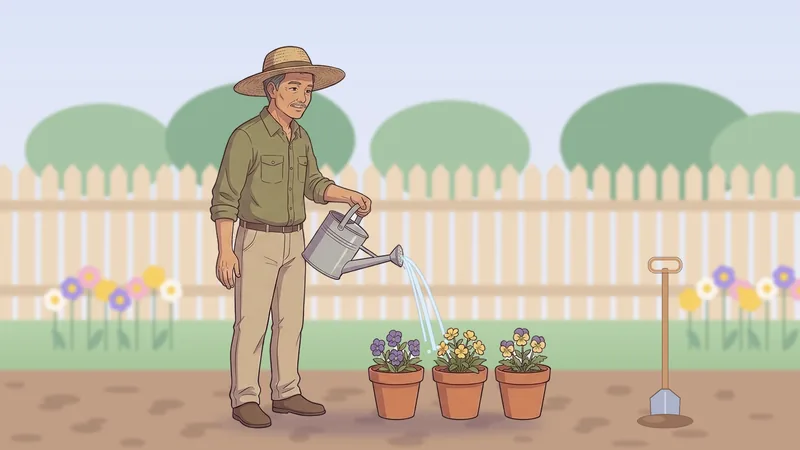
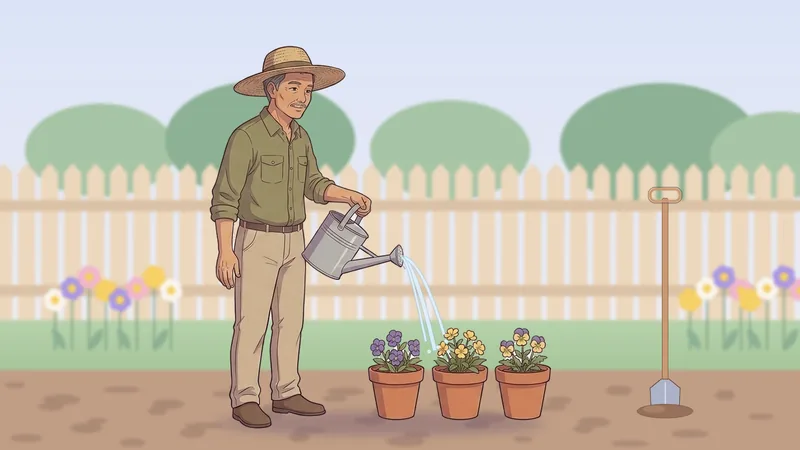
Review minors: mc4 wet roller track, taller tf2 shovel, l02 tf1 counter on the floor line, compose-scenes cleanup, docs

Changed region(s): [[0.8125, 0.4044, 0.875, 0.6222], [0.7812, 0.84, 0.875, 0.9644]]

diff --git a/sw.js b/sw.js
@@ -3,7 +3,7 @@
  * Không gửi dữ liệu đi đâu, không đụng request khác nguồn, không đụng localStorage.
  * Mỗi lần deploy có file precache đổi: sửa VERSION rồi chạy `node tools/check-sw.mjs --write`.
  */
-// content-hash: 34@33f75bd3a5f4f137
+// content-hash: 34@bd6bb9ea0ff5139e
 "use strict";
 
 var VERSION = "34";

diff --git a/tools/compose-scenes.py b/tools/compose-scenes.py
@@ -13,6 +13,9 @@ Run from the repo root:
 --unit which unit's scene table to use (default l01; l01 output is unchanged)
 --cut  directory with <scene-id>.png RGBA cut-outs (1376x768)  default ../nguon-hinh/unit1-cut (l02: unit2-cut)
 --out  directory for composed 1600x900 PNGs (input of make-scenes.py) default ../nguon-hinh/agy-anh (l02: agy-anh-u2)
+After composing: copy raw/l01-tf1.png to a staging dir as tf1.png, then
+  python tools/make-scenes.py --src STAGE --unit l01 --names tf1,... --out800 assets/img/l01/pic --outhd OUTDIR
+  (writes tf1-800.webp / tf1-1600.webp; the 1600 files are not shipped; same for l02).
 Writes only into --out (and --contact when given).
 """
 import argparse
@@ -909,9 +912,9 @@ def fence(cv, y0, y1, ol=None, pick=34, gap=12):
 def shovel(cv, x, ground, ol=None):
     """Garden shovel stuck upright in the soil at x: handle with D-grip, shaft, blade sunk into a soil mound."""
     wood, steel = (200, 152, 112), (172, 178, 200)
-    cv.rect(x - 6, ground - 300, x + 6, ground - 54, fill=wood + (255,), ol=ol, w=1.4, r=3)
-    cv.rect(x - 34, ground - 322, x + 34, ground - 290, fill=None, ol=ol, w=1.4, r=14)
-    cv.rect(x - 32, ground - 320, x + 32, ground - 292, fill=None, ol=wood, w=5, r=13)
+    cv.rect(x - 6, ground - 420, x + 6, ground - 54, fill=wood + (255,), ol=ol, w=1.4, r=3)
+    cv.rect(x - 34, ground - 442, x + 34, ground - 410, fill=None, ol=ol, w=1.4, r=14)
+    cv.rect(x - 32, ground - 440, x + 32, ground - 412, fill=None, ol=wood, w=5, r=13)
     cv.poly([(x - 8, ground - 58), (x + 8, ground - 58), (x + 30, ground - 40), (x + 28, ground + 4), (x - 28, ground + 4), (x - 30, ground - 40)], fill=steel + (255,), ol=ol, w=1.5)
     cv.line([(x, ground - 52), (x, ground - 2)], fill=mix(steel, (255, 255, 255), .45) + (255,), w=3)
     cv.ell(x, ground + 6, 56, 14, fill=(150, 112, 90, 255), ol=ol, w=1.3)
@@ -977,10 +980,10 @@ def cafe_counter(mid, x0, top, depth, floor_y, ol=OL):
         f = k / 4.0
         mid.line([(x0 + 40 - 40 * f, top - depth + depth * f), (W + 60, top - depth + depth * f)], fill=mix(WOOD_T, WOOD_L, .6) + (255,), w=1.3)
     mid.rect(x0, top, W + 60, top + 16, fill=(232, 196, 160, 255), ol=ol, w=1.4)
-    mid.rect(x0, top + 16, W + 60, floor_y + 30, fill=WOOD_F + (255,), ol=ol, w=1.6)
+    mid.rect(x0, top + 16, W + 60, floor_y, fill=WOOD_F + (255,), ol=ol, w=1.6)
     for k in range(0, 4):
         px = x0 + 30 + k * 190
-        mid.rect(px, top + 56, px + 150, floor_y + 20, fill=WOOD_D + (255,), ol=ol, w=1.3, r=4)
+        mid.rect(px, top + 56, px + 150, floor_y - 10, fill=WOOD_D + (255,), ol=ol, w=1.3, r=4)
 
 
 def till(cv, x, by, ol=OL):
@@ -1099,9 +1102,6 @@ def pic_bg_mc4(t, bb):
     cv = Cv((0, 0, 0, 255))
     cv.rect(0, 0, W, 760, fill=(250, 245, 236, 255))                               # wall: cream
     cv.rect(0, 0, 700, 760, fill=(244, 216, 128, 255))                             # part already painted yellow
-    cv.rect(560, 30, 700, 400, fill=(250, 226, 140, 255))                          # fresh wet stripe under the roller
-    for k in range(7):
-        cv.rect(560 + k * 20, 30, 566 + k * 20, 400, fill=(252, 232, 156, 255))
     cv.rect(1090, 140, 1440, 520, fill=(252, 246, 232, 255), r=8)                  # window
     cv.vgrad(1108, 158, 1422, 502, (212, 224, 250), (240, 240, 252))
     cv.ell(1200, 470, 90, 50, fill=(186, 211, 186, 255))
@@ -1187,12 +1187,11 @@ PIC_NEW = {
 
 def pic_props(name, t, bb, mid, fg, post):
     x0, y0, x1, y1 = bb          # figure box in cut-out pixels
-    gx = lambda sx, sy: t(sx, sy)
     if name == "l01-tf1":
         shadow(mid, *t((x0 + x1) / 2, y1 - 5), 330, 26, 90)
     elif name == "l01-tf2":
         shadow(mid, *t((x0 + x1) / 2, y1 - 8), 330, 24, 90)
-        shovel(mid, 1330, 836, ol=OL)
+        shovel(mid, 1330, 816, ol=OL)
         # water: thin translucent arcs from the spout onto the middle pot
         p0 = t(748, 424)
         for (cx, cy, ex, ey, wd) in ((772, 436, 806, 588, 7), (782, 426, 822, 560, 5), (762, 430, 790, 572, 4)):
@@ -1212,7 +1211,6 @@ def pic_props(name, t, bb, mid, fg, post):
     elif name == "l01-mc3":
         shadow(mid, *t((x0 + x1) / 2, y1 - 6), 320, 22, 90)
     elif name == "l01-mc4":
-        shadow(mid, *t((x0 + x1) / 2, y1 - 8), 300, 22, 90)
         # drop cloth on the floor under the ladder and the bucket (drawn before the people)
         cl = [(300, 800), (1340, 800), (1480, 890), (200, 890)]
         mid.poly(cl, fill=(246, 242, 232, 255), ol=OL, w=1.5)
@@ -1220,6 +1218,12 @@ def pic_props(name, t, bb, mid, fg, post):
             mid.line([(fx, 806), (fx - 60 + (fx % 50), 886)], fill=(224, 216, 204, 255), w=2)
         shadow(mid, *t((x0 + x1) / 2, y1 - 8), 300, 20, 90)
         shadow(mid, *t(931, 728), 56, 9, 110)
+        # wet roller track: starts at the roller head and runs down the wall (glossy fresh yellow)
+        rx0, rx1, ry = t(546, 0)[0], t(632, 0)[0], t(0, 82)[1]
+        mid.rect(rx0, ry, rx1, ry + 330, fill=(252, 232, 150, 255), ol=(236, 196, 96, 255), w=1.6, r=10)
+        for k in range(1, 5):
+            mid.line([(rx0 + (rx1 - rx0) * k / 5, ry + 20), (rx0 + (rx1 - rx0) * k / 5, ry + 320)], fill=(255, 244, 190, 255), w=3)
+        mid.ell((rx0 + rx1) / 2, ry + 330, (rx1 - rx0) / 2, 8, fill=(236, 206, 110, 255))
     elif name == "l02-tf1":
         cx0 = t(x1 + 20, 0)[0] + 70
         ftop = t(0, 392)[1]
@@ -1269,11 +1273,9 @@ def main():
     if a.only and all(n in PIC_NEW for n in a.only.split(",") if n):
         a.cut = a.cut or os.path.join("..", "nguon-hinh", "people", "cut")
         a.out = a.out or os.path.join("..", "nguon-hinh", "people", "raw")
-        scenes = list(PIC_NEW)
-        maker = make_pic
         os.makedirs(a.out, exist_ok=True)
         for n in a.only.split(","):
-            im = maker(n, a.cut)
+            im = make_pic(n, a.cut)
             im.save(os.path.join(a.out, n + ".png"))
             print("wrote", os.path.join(a.out, n + ".png"), im.size)
         return 0

diff --git a/CREDITS-IMAGES.md b/CREDITS-IMAGES.md
@@ -61,7 +61,7 @@ Status: Unit 1 and Unit 2 scene images are final art (date 2026-11-19). The Unit
 | assets/img-hd/l02/duo-walk-1600.webp | AI-generated people by the site owner (original characters); background and props drawn by tools/compose-scenes.py | 2026-11-19 | Unit 2, scene duo-walk, 1600x900 |
 | assets/img/l02/scene/group-outro-800.webp | AI-generated people by the site owner (original characters); background and props drawn by tools/compose-scenes.py | 2026-11-19 | Unit 2, outro group-outro, 800x450 |
 | assets/img-hd/l02/group-outro-1600.webp | AI-generated people by the site owner (original characters); background and props drawn by tools/compose-scenes.py | 2026-11-19 | Unit 2, outro group-outro, 1600x900 |
-| assets/img/l02/pic/tf1-800.webp | AI-generated people by the site owner (original characters: three people in a queue (cut-out l02-tf1)); cafe wall, window, menu board and a small counter with one cup and a till drawn by tools/compose-scenes.py | 2026-11-21 | Unit 2, exercise tf1/game picture, 800x450 |
+| assets/img/l02/pic/tf1-800.webp | AI-generated people by the site owner (original characters: three people in a queue (cut-out l02-tf1)); cafe wall, window, menu board, hanging lamps, a shelf with three canisters, a plant and a small counter with one cup and a till drawn by tools/compose-scenes.py | 2026-11-21 | Unit 2, exercise tf1/game picture, 800x450 |
 | assets/img/l02/pic/mc2-800.webp | AI-generated people by the site owner (original characters: three people around a table with a plan paper and a cup (cut-out l02-mc2)); meeting room with a window, picture, lamps, plants and floor drawn by tools/compose-scenes.py | 2026-11-21 | Unit 2, exercise mc2/game picture, 800x450 |
 | assets/img/l02/pic/mc3-800.webp | AI-generated people by the site owner (original characters: two men, one with a box and a yellow cap, one with a clipboard (cut-out l02-mc3)); warehouse wall with a roller door, window strip, lamps and concrete floor drawn by tools/compose-scenes.py | 2026-11-21 | Unit 2, exercise mc3/game picture, 800x450 |
 | assets/img/l03/scene/obj-table-800.webp | AI-generated by the site owner (original objects and settings); resized by tools/make-scenes.py | 2026-11-21 | Unit 3, scene obj-table, 800x450 |
